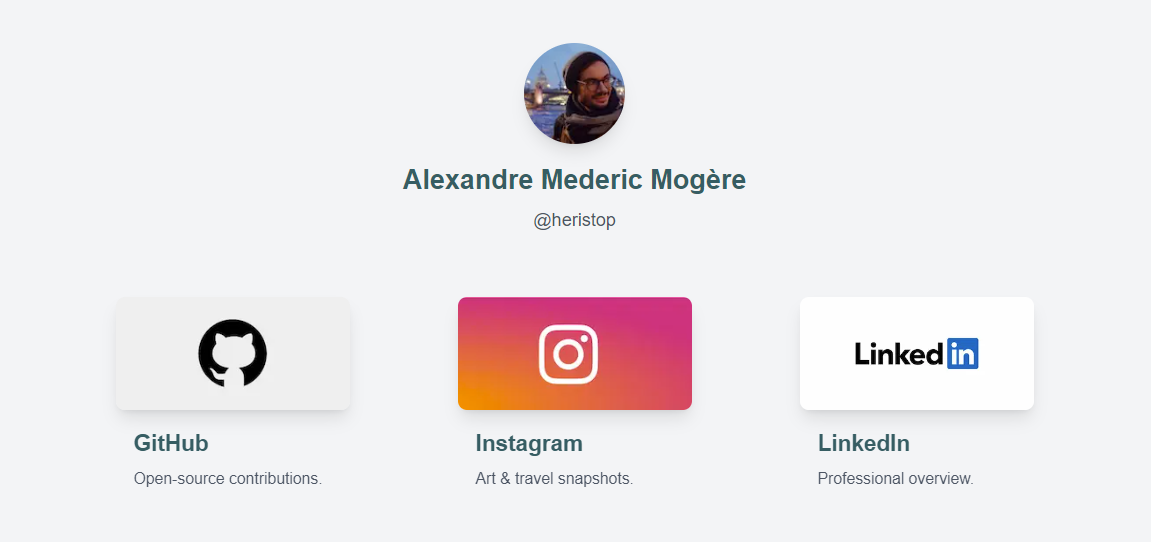
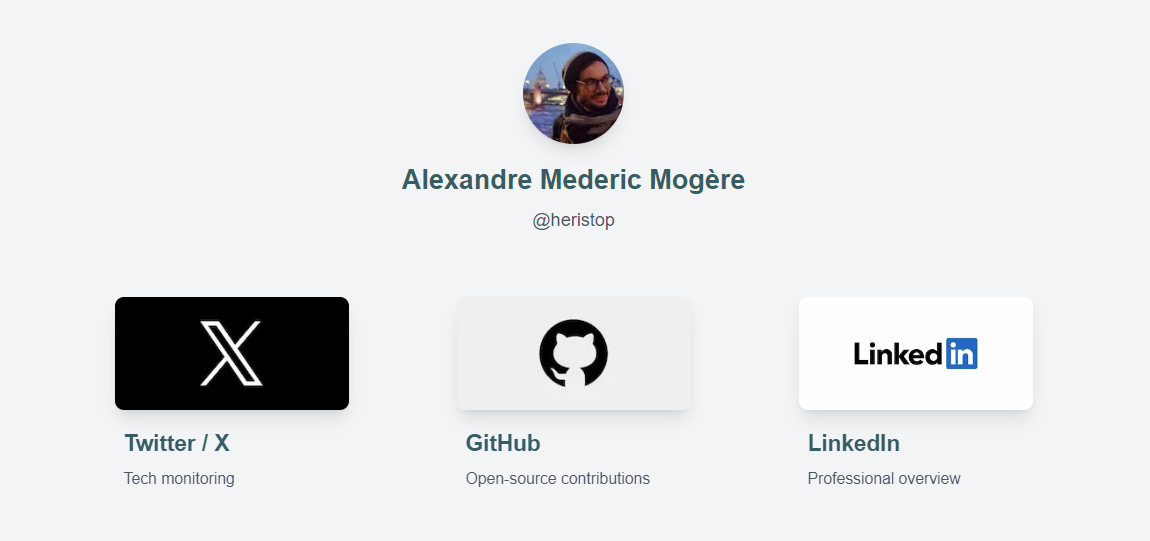
[Project] Moved components into src dir

diff --git a/app/page.tsx b/app/page.tsx
@@ -1,6 +1,6 @@
 import Image from "next/image";
-import SocialLinks from "../components/SocialLinks";
-import MyProfile from "../components/MyProfile";
+import SocialLinks from "../src/components/SocialLinks";
+import MyProfile from "../src/components/MyProfile";
 
 export default function Home() {
   return (

diff --git a/src/components/SocialLinks.tsx b/src/components/SocialLinks.tsx
@@ -1,7 +1,7 @@
 import React from "react";
 import SocialNetwork from "./SocialNetwork";
-import config from "../app/config";
-import { SocialNetworkProps } from "./types";
+import config from "../../app/config";
+import { SocialNetworkProps } from "../types";
 
 const SocialLinks = () => {
   return (

diff --git a/src/components/SocialNetwork.tsx b/src/components/SocialNetwork.tsx
@@ -1,6 +1,6 @@
 import React from "react";
 import Image from "next/image";
-import { SocialNetworkProps } from "./types";
+import { SocialNetworkProps } from "../types";
 
 const SocialNetwork: React.FC<SocialNetworkProps> = ({
   href,

diff --git a/src/components/MyProfile.tsx b/src/components/MyProfile.tsx
@@ -1,5 +1,5 @@
 import Image from "next/image";
-import config from "../app/config";
+import config from "../../app/config";
 
 function MyProfile() {
   return (

diff --git a/README.md b/README.md
@@ -3,3 +3,52 @@
 A single page displaying my social links made with Next.js and Tailwind
 
 ![Preview](/docs/preview.png)
+
+Social networks can be configured in `app/config.js`:
+
+```json
+export default {
+  avatarSrc: "",
+  avatarAlt: "",
+  fullName: "",
+  pseudo: "@",
+  socialNetworks: [
+    {
+      href: "https://github.com/heristop",
+      iconSrc: "/assets/github.webp",
+      title: "GitHub",
+      description: "Open-source contributions",
+    },
+    {
+      href: "https://instagram.com/heristop",
+      iconSrc: "/assets/instagram.webp",
+      title: "Instagram",
+      description: "Art & travel snapshots",
+    },
+    {
+      href: "https://www.linkedin.com/in/heristop",
+      iconSrc: "/assets/linkedin.webp",
+      title: "LinkedIn",
+      description: "Professional overview",
+    },
+    {
+      href: "https://x.com/heristop",
+      iconSrc: "/assets/x.webp",
+      title: "Twitter / X",
+      description: "Tech monitoring",
+    },
+    {
+      href: "https://gutenku.xyz",
+      iconSrc: "/assets/gutenku.webp",
+      title: "GutenKu",
+      description: "AI-crafted haikus",
+    },
+    {
+      href: "https://heristop.github.io",
+      iconSrc: "/assets/zazen.webp",
+      title: "ZazenCode",
+      description: "Tech blog",
+    },
+  ],
+};
+```
